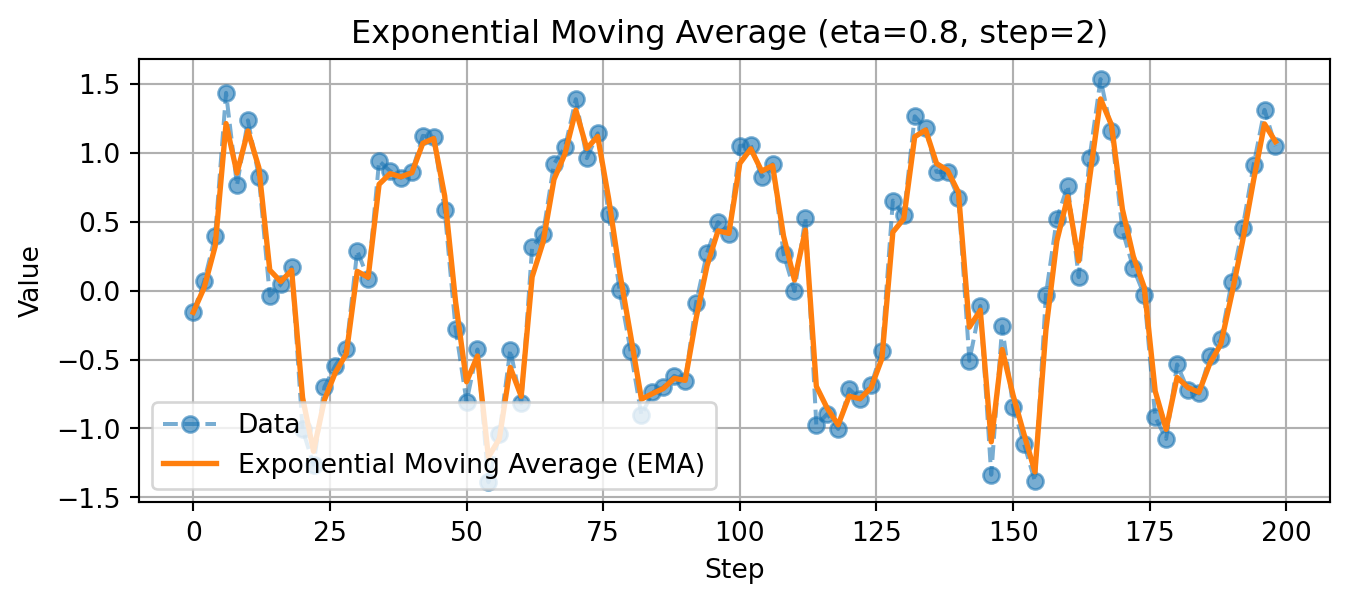
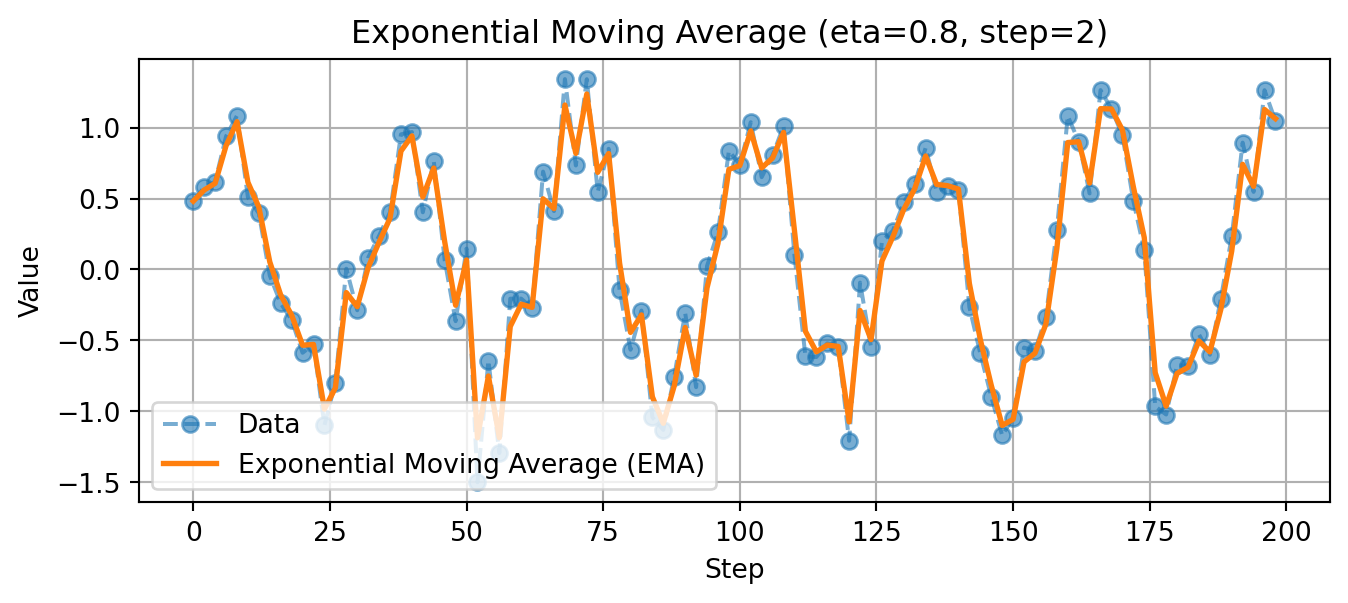
Update

diff --git a/docs/posts/paper/2024-11-30-rotating-without-seeing.html b/docs/posts/paper/2024-11-30-rotating-without-seeing.html
@@ -115,6 +115,49 @@ gtag('js', new Date());
 gtag('config', 'G-2NVZN2MJZT', { 'anonymize_ip': true});
 </script>
 
+  <script>window.backupDefine = window.define; window.define = undefined;</script><script src="https://cdn.jsdelivr.net/npm/katex@latest/dist/katex.min.js"></script>
+  <script>document.addEventListener("DOMContentLoaded", function () {
+ var mathElements = document.getElementsByClassName("math");
+ var macros = [];
+ for (var i = 0; i < mathElements.length; i++) {
+  var texText = mathElements[i].firstChild;
+  if (mathElements[i].tagName == "SPAN") {
+   katex.render(texText.data, mathElements[i], {
+    displayMode: mathElements[i].classList.contains('display'),
+    throwOnError: false,
+    macros: macros,
+    fleqn: false
+   });
+}}});
+  </script>
+  <script>window.define = window.backupDefine; window.backupDefine = undefined;</script><link rel="stylesheet" href="https://cdn.jsdelivr.net/npm/katex@latest/dist/katex.min.css">
+
+<script type="text/javascript">
+const typesetMath = (el) => {
+  if (window.MathJax) {
+    // MathJax Typeset
+    window.MathJax.typeset([el]);
+  } else if (window.katex) {
+    // KaTeX Render
+    var mathElements = el.getElementsByClassName("math");
+    var macros = [];
+    for (var i = 0; i < mathElements.length; i++) {
+      var texText = mathElements[i].firstChild;
+      if (mathElements[i].tagName == "SPAN") {
+        window.katex.render(texText.data, mathElements[i], {
+          displayMode: mathElements[i].classList.contains('display'),
+          throwOnError: false,
+          macros: macros,
+          fleqn: false
+        });
+      }
+    }
+  }
+}
+window.Quarto = {
+  typesetMath
+};
+</script>
 
 </head>
 
@@ -172,9 +215,10 @@ gtag('config', 'G-2NVZN2MJZT', { 'anonymize_ip': true});
   <li><a href="#introduction" id="toc-introduction" class="nav-link active" data-scroll-target="#introduction"><span class="header-section-number">1</span> Introduction</a></li>
   <li><a href="#learning-touch-dexterity" id="toc-learning-touch-dexterity" class="nav-link" data-scroll-target="#learning-touch-dexterity"><span class="header-section-number">2</span> Learning Touch Dexterity</a>
   <ul class="collapse">
-  <li><a href="#problem-formulationmdp" id="toc-problem-formulationmdp" class="nav-link" data-scroll-target="#problem-formulationmdp"><span class="header-section-number">2.1</span> Problem Formulation(MDP)</a>
+  <li><a href="#problem-formulation" id="toc-problem-formulation" class="nav-link" data-scroll-target="#problem-formulation"><span class="header-section-number">2.1</span> Problem Formulation</a>
   <ul class="collapse">
-  <li><a href="#action" id="toc-action" class="nav-link" data-scroll-target="#action"><span class="header-section-number">2.1.1</span> Action</a></li>
+  <li><a href="#state" id="toc-state" class="nav-link" data-scroll-target="#state"><span class="header-section-number">2.1.1</span> State</a></li>
+  <li><a href="#action" id="toc-action" class="nav-link" data-scroll-target="#action"><span class="header-section-number">2.1.2</span> Action</a></li>
   </ul></li>
   <li><a href="#domain-randomization" id="toc-domain-randomization" class="nav-link" data-scroll-target="#domain-randomization"><span class="header-section-number">2.2</span> Domain Randomization</a></li>
   <li><a href="#training-procedure" id="toc-training-procedure" class="nav-link" data-scroll-target="#training-procedure"><span class="header-section-number">2.3</span> Training Procedure</a></li>
@@ -259,11 +303,32 @@ Rotate the rubber duck for two cycles without falling, even if it is never prese
 </section>
 <section id="learning-touch-dexterity" class="level1" data-number="2">
 <h1 data-number="2"><span class="header-section-number">2</span> Learning Touch Dexterity</h1>
-<section id="problem-formulationmdp" class="level2" data-number="2.1">
-<h2 data-number="2.1" class="anchored" data-anchor-id="problem-formulationmdp"><span class="header-section-number">2.1</span> Problem Formulation(MDP)</h2>
-<section id="action" class="level3" data-number="2.1.1">
-<h3 data-number="2.1.1" class="anchored" data-anchor-id="action"><span class="header-section-number">2.1.1</span> Action</h3>
-<div id="e8cfb4f4" class="cell" data-execution_count="1">
+<p>논문에서 제안된 Touch Dexterity의 AI 모듈이 학습되는 과정에 대해 살펴보겠습니다.</p>
+<section id="problem-formulation" class="level2" data-number="2.1">
+<h2 data-number="2.1" class="anchored" data-anchor-id="problem-formulation"><span class="header-section-number">2.1</span> Problem Formulation</h2>
+<p>Touch Dexterity는 강화학습 방법으로 제어를 하기 때문에 강화학습의 문제 정의 방식인 MDP(Markov Decision Process)의 요소들, State, Action, Reward 순으로 확인해보겠습니다.</p>
+<section id="state" class="level3" data-number="2.1.1">
+<h3 data-number="2.1.1" class="anchored" data-anchor-id="state"><span class="header-section-number">2.1.1</span> State</h3>
+<p>State는 Hand Robot Agent의 상태를 나타내는 요소들로 이루어집니다. Allegro hand 로봇의의 joint position(16 차원), sensor observation(16차원), 이전 position target(16차원), 그리고 rotation axis(2차원)로 구성되어 있습니다. 핸드 로봇의 관절(joint) 부분들이 작은 모터들 16개로 이루어져 있고, FSR(<a href="https://en.wikipedia.org/wiki/Force-sensing_resistor">Force Sensing Resistor</a>) 센서들도 총 16개가 아래 그림처럼 손가락과 손바닥에 분포되어 있어 State 벡터의 차원들이 다음과 같이 구성되게 됩니다. 이렇게 구성된 State가 학습 시에 Policy Network의 Input으로 들어가게 되는데 1 time step 정보만으로는 학습하기에 부족한 정보량이기 때문에 현재 시점 기준 이전 스텝 2 time step을 합쳐(concatenation), 총 <strong>3 time step 을 쌓아서</strong> policy network에 input으로 넣어줍니다.</p>
+<center>
+<img src="../../images/2024-11-30-rotating-without-seeing/4.png" alt="22" width="100%">
+<figcaption>
+State 구성요소
+</figcaption>
+</center>
+</section>
+<section id="action" class="level3" data-number="2.1.2">
+<h3 data-number="2.1.2" class="anchored" data-anchor-id="action"><span class="header-section-number">2.1.2</span> Action</h3>
+<p>Hand Agent가 움직이는 Action은 로봇의 각 관절(joint) 모터들이 움직이는 것으로 생각할 수 있습니다. 따라서 Policy network에서는 16차원의 모터와 관련된 어떠한 command 정보가 나오게 됩니다. 하지만 Policy network의 output인 <span class="math inline">a_t</span>를 바로 쓰는 것이 아닌 <a href="https://en.wikipedia.org/wiki/Proportional%E2%80%93integral%E2%80%93derivative_controller">PD Controller</a>에 적용하기 위한 값으로 변환하는 과정을 거치게 됩니다. 결과적으로 PD Controller에서 사용하는 값은 <span class="math inline">\tilde{q}_{t+1}</span> (현재 time step이 <span class="math inline">t</span> 이므로 앞으로 제어할 position의 time step 첨자는 <span class="math inline">t+1</span>)인 것 입니다.</p>
+<p>하지만 여기서 <span class="math inline">\tilde{q}_{t+1}</span>을 바로 적용할 경우 생기는 문제가 있습니다. policy network output 값들이 연속적인 시간 순으로 봤을때 갭이 큰 값들이 나타나게 되면 부드러운 움직임을 가질 수 없습니다. 따라서 해당연구에서는 <a href="https://en.wikipedia.org/wiki/Moving_average">Exponential moving average</a> 방법을 사용하여 smoothing하는 과정을 거치게 됩니다.</p>
+<center>
+<img src="../../images/2024-11-30-rotating-without-seeing/5.png" alt="22" width="100%">
+<figcaption>
+Action이 적용되는 과정
+</figcaption>
+</center>
+<p>아래 그래프는 논문에서 제시한 파라미터(<span class="math inline">\eta</span>, 2 consecutive steps)로 랜덤한 포인트들을 가지고 smoothing하는 모습을 보여줍니다.</p>
+<div id="120e5ae1" class="cell" data-execution_count="1">
 <details class="code-fold">
 <summary>Code</summary>
 <div class="sourceCode cell-code" id="cb1"><pre class="sourceCode numberSource python number-lines code-with-copy"><code class="sourceCode python"><span id="cb1-1"><a href="#cb1-1"></a><span class="im">import</span> matplotlib.pyplot <span class="im">as</span> plt</span>
@@ -305,6 +370,7 @@ Rotate the rubber duck for two cycles without falling, even if it is never prese
 </div>
 </div>
 </div>
+<p>이렇게 최종적으로 계산된 Action값으로 Hand Agent의 모션이 만들어지게 됩니다.</p>
 </section>
 </section>
 <section id="domain-randomization" class="level2" data-number="2.2">

diff --git a/docs/post.html b/docs/post.html
@@ -267,7 +267,7 @@ window.Quarto = {
 </tr>
 </thead>
 <tbody class="list">
-<tr data-index="0" data-categories="paper,tactile,rl,hand" data-listing-date-sort="1732892400000" data-listing-file-modified-sort="1733036796841" data-listing-date-modified-sort="NaN" data-listing-reading-time-sort="4" data-listing-word-count-sort="688" data-listing-title-sort="📃Rotating without Seeing" data-listing-filename-sort="2024-11-30-rotating-without-seeing.qmd" onclick="href = this.querySelector('a').getAttribute('href');
+<tr data-index="0" data-categories="paper,tactile,rl,hand" data-listing-date-sort="1732892400000" data-listing-file-modified-sort="1733043127274" data-listing-date-modified-sort="NaN" data-listing-reading-time-sort="5" data-listing-word-count-sort="935" data-listing-title-sort="📃Rotating without Seeing" data-listing-filename-sort="2024-11-30-rotating-without-seeing.qmd" onclick="href = this.querySelector('a').getAttribute('href');
  if (href) { window.location=href ; return false; }">
 <td>
 <span class="listing-date">Nov 30, 2024</span>

diff --git a/docs/index.html b/docs/index.html
@@ -271,7 +271,7 @@ window.Quarto = {
     </div>
 </div>
 <div class="list quarto-listing-default">
-<div class="quarto-post image-right" data-index="0" data-categories="paper,tactile,rl,hand" data-listing-date-sort="1732892400000" data-listing-file-modified-sort="1733036796841" data-listing-date-modified-sort="NaN" data-listing-reading-time-sort="4" data-listing-word-count-sort="688">
+<div class="quarto-post image-right" data-index="0" data-categories="paper,tactile,rl,hand" data-listing-date-sort="1732892400000" data-listing-file-modified-sort="1733043127274" data-listing-date-modified-sort="NaN" data-listing-reading-time-sort="5" data-listing-word-count-sort="935">
 <div class="thumbnail">
 <p><a href="./posts/paper/2024-11-30-rotating-without-seeing.html" class="no-external"></a></p><a href="./posts/paper/2024-11-30-rotating-without-seeing.html" class="no-external">
 <p><img loading="lazy" src="./images/2024-11-23-rotating-without-seeing/flow.png" class="thumbnail-image"></p>
